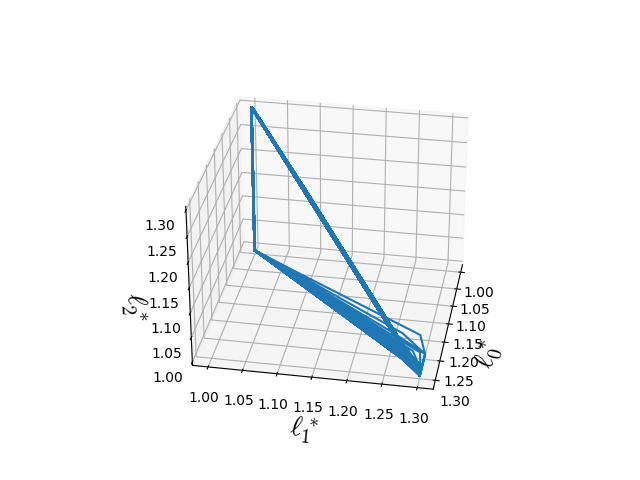
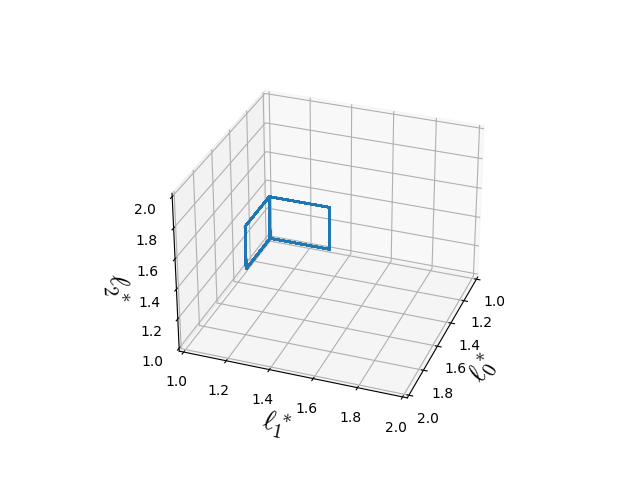
commit

Changed region(s): [[0.1562, 0.1875, 0.7812, 0.9062]]

diff --git a/sim/analysis/arm_length/arm_length_space_triangle.py b/sim/analysis/arm_length/arm_length_space_triangle.py
@@ -17,8 +17,8 @@ def main():
 
     # intervals = np.arange(0.1, 1.0, 0.2)
     # lengths = np.arange(1.1, 2.0, 0.2)
-    intervals = [0.5]
-    lengths   = [1.7]
+    intervals = [0.9]
+    lengths   = [1.3]
 
     for interval in tqdm(intervals):
         for length in tqdm(lengths, leave=False):
